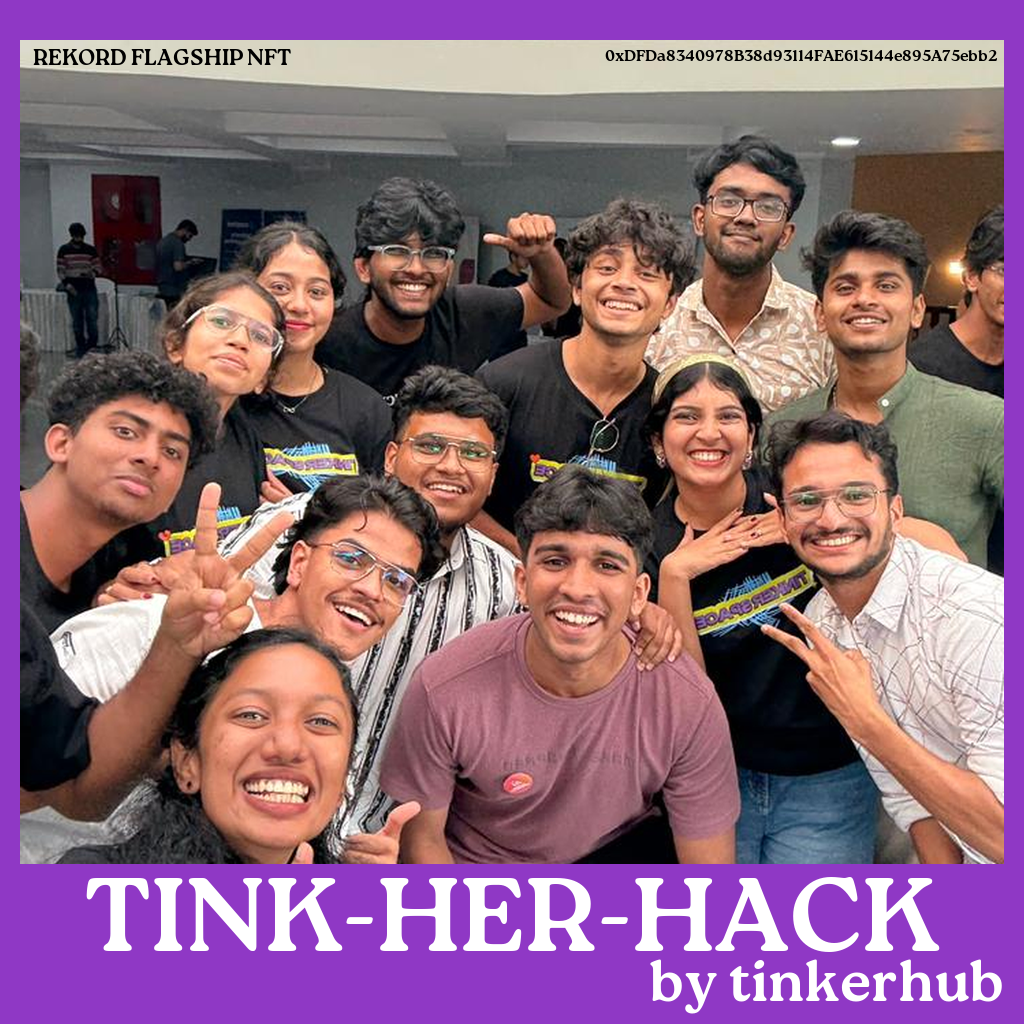
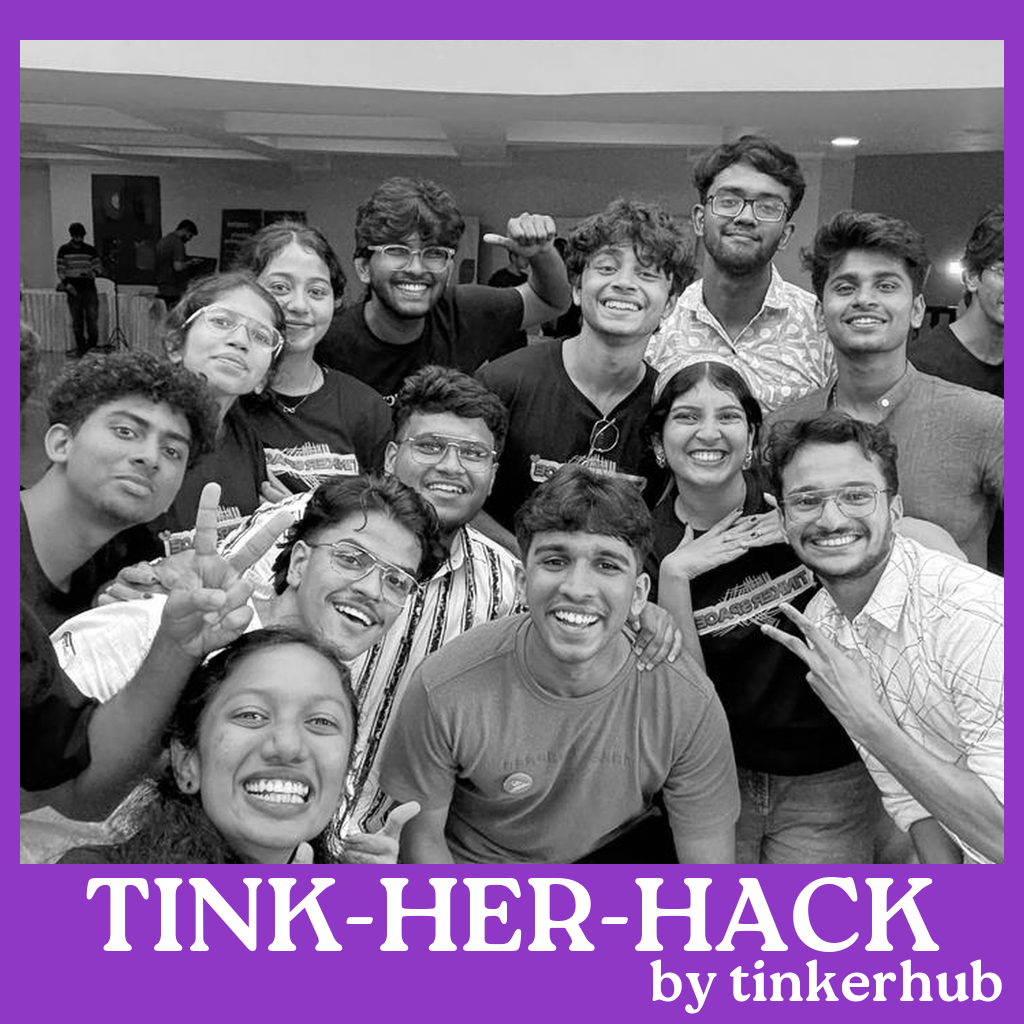
loyality levels

diff --git a/mainapp/imagemal.py b/mainapp/imagemal.py
@@ -103,7 +103,7 @@ def loyality(image,prestige,loyality):
 
 
 
-def imagetest(image,prestige):
+def imagetest(image,prestige,loyality):
 
     # Open image
     img=Image.open(image).convert("RGB")
@@ -184,55 +184,57 @@ def imagetest(image,prestige):
     mainy+=40
     draw.text((mainx, mainy), text, fill=textcolor, font=font)
 
-    #draw bounding box for the image inside border
-    x1=borderleft
-    y1=bordertop
-    x2=borderleft+ cropped_imagewidth
-    y2=bordertop+ cropped_imageheight
+    if loyality=="short":
+        gray_img = img.convert("L").convert("RGB")  
+        canvas.paste(gray_img, (borderleft, bordertop))
+    elif loyality=="medium":
+        pass
+    elif loyality=="long":
+        #draw bounding box for the image inside border
+        x1=borderleft
+        y1=bordertop
+        x2=borderleft+ cropped_imagewidth
+        y2=bordertop+ cropped_imageheight
 
-    image_height = y2 - y1
+        image_height = y2 - y1
+        label = "REKORD FLAGSHIP NFT"
+        font = ImageFont.truetype("Roca_Two_Bold.ttf", 22)
+        text_color = (0,0,0)
 
-    label = "REKORD FLAGSHIP NFT"
-    font = ImageFont.truetype("Roca_Two_Bold.ttf", 22)
-    text_color = (0,0,0)
+        # Measure text
+        bbox = draw.textbbox((0, 0), label, font=font)
+        text_w = bbox[2] - bbox[0]
+        text_h = bbox[3] - bbox[1]
 
-    # Measure text
-    bbox = draw.textbbox((0, 0), label, font=font)
-    text_w = bbox[2] - bbox[0]
-    text_h = bbox[3] - bbox[1]
+        # X: center within image bbox
+        offsetx=-350
+        text_x = x1 + (x2 - x1 - text_w) // 2 + offsetx
 
-    # X: center within image bbox
-    offsetx=-350
-    text_x = x1 + (x2 - x1 - text_w) // 2 + offsetx
+        # Y: inside image, near top
+        top_offset_ratio = 0.01 
+        text_y = y1 + int(image_height * top_offset_ratio)
 
-    # Y: inside image, near top
-    top_offset_ratio = 0.01 
-    text_y = y1 + int(image_height * top_offset_ratio)
-
-    draw.text((text_x, text_y), label, fill=text_color, font=font)
-
-
-    label = "0xDFDa8340978B38d93114FAE615144e895A75ebb2"
-    font = ImageFont.truetype("Roca_Two_Bold.ttf", 16)
-    text_color = (0,0,0)
-
-    # Measure text
-    bbox = draw.textbbox((0, 0), label, font=font)
-    text_w = bbox[2] - bbox[0]
-    text_h = bbox[3] - bbox[1]
-
-    # X: center within image bbox
-    offsetx=290
-    text_x = x1 + (x2 - x1 - text_w) // 2 + offsetx
-
-    # Y: inside image, near top
-    top_offset_ratio = 0.01 
-    text_y = y1 + int(image_height * top_offset_ratio)
-
-    draw.text((text_x, text_y), label, fill=text_color, font=font)
+        draw.text((text_x, text_y), label, fill=text_color, font=font)
 
 
+        label = "0xDFDa8340978B38d93114FAE615144e895A75ebb2"
+        font = ImageFont.truetype("Roca_Two_Bold.ttf", 16)
+        text_color = (0,0,0)
 
+        # Measure text
+        bbox = draw.textbbox((0, 0), label, font=font)
+        text_w = bbox[2] - bbox[0]
+        text_h = bbox[3] - bbox[1]
+
+        # X: center within image bbox
+        offsetx=290
+        text_x = x1 + (x2 - x1 - text_w) // 2 + offsetx
+
+        # Y: inside image, near top
+        top_offset_ratio = 0.01 
+        text_y = y1 + int(image_height * top_offset_ratio)
+
+        draw.text((text_x, text_y), label, fill=text_color, font=font)
 
     # Save
     canvas.save("nftimage.png")
@@ -243,7 +245,11 @@ def imagetest(image,prestige):
 if __name__ == "__main__":
     '''imagemanipulation("testimage3.png")'''
     '''loyality("testimage3.png","flagship","short")'''
-    imagetest("testimage.png","flagship")
+    imagetest("testimage.png","flagship","short")
 #standard
 #signature
 #flagship
+
+#short
+#medium
+#long
